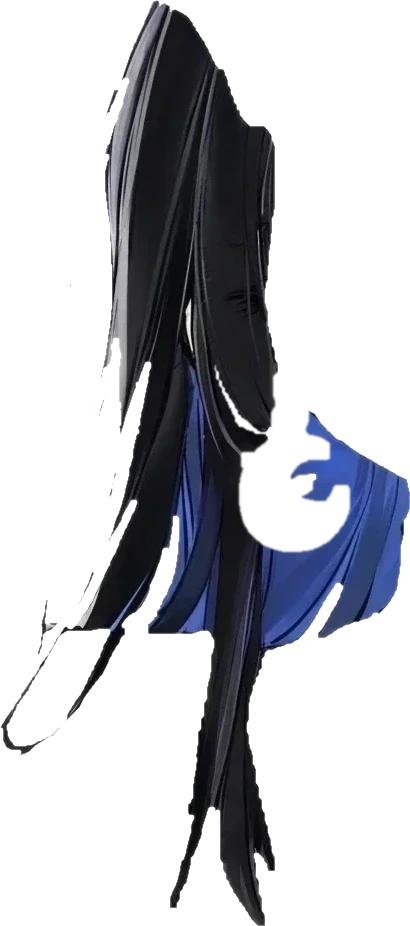
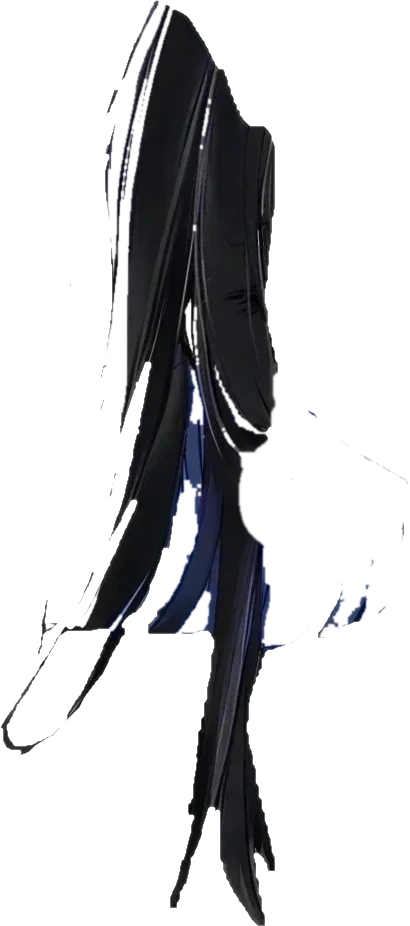
머리카락: 앞쪽 검은 다발만 찰랑, 안쪽은 살짝
Claude-Session: https://claude.ai/code/session_015z2jERGhkXRnxmKCmzk3Uw

diff --git a/rig/rig.js b/rig/rig.js
@@ -276,7 +276,7 @@ window.CelesteRig = async function(cv, opt = {}){
       else { [x0, y0] = PARTS.patches[n]; w = imgs[n].naturalWidth; h = imgs[n].naturalHeight; }
       const g = RIG.layers[n]?.group;
       const hair = g === 'hairBack' || g === 'strand' || g === 'underHair';
-      if(g === 'strand'){ const Ld = RIG.layers[n]; STR[n] = {root:Ld.root, len:Ld.len, c:chain(8), ph:0, gain:5.5, air:Ld.root[0] < FACE_X ? 1 : -.8, side:Ld.root[0] < FACE_X ? 'L' : 'R'}; }
+      if(g === 'strand'){ const Ld = RIG.layers[n]; STR[n] = {root:Ld.root, len:Ld.len, c:chain(8), ph:0, gain:Ld.soft ? 1.1 : 5.5, air:Ld.soft ? 0 : Ld.root[0] < FACE_X ? 1 : -.8, /* soft = 회색·파란 안쪽 머리: 고개 돌릴 때만 살짝 */ side:Ld.root[0] < FACE_X ? 'L' : 'R'}; }
       const bend = n === 'neck' || g === 'body';
       M[n] = mesh(n, x0, y0, w, h, hair ? 14 : bend ? 4 : 1, hair ? 64 : bend ? 24 : 1);   // 머리카락(과 목)만 그물, 나머지는 사각형 하나(휘지 않음)
       if(!RIG.layers[n]) M[n].group = 'patch';

diff --git a/sw.js b/sw.js
@@ -1,5 +1,5 @@
 // 오프라인 캐시. 배포할 때마다 버전이 오른다(tools/celeste_deploy.py)
-const CACHE = 'bleu-minuit-v26';
+const CACHE = 'bleu-minuit-v27';
 const FILES = [
  "rig/under.webp",
  "rig/back_hair.webp",
@@ -22,8 +22,11 @@ const FILES = [
  "rig/irides-r.webp",
  "rig/irides-l.webp",
  "rig/eyelash-l.webp",
+ "rig/strand00b.webp",
  "rig/strand00.webp",
+ "rig/strand01b.webp",
  "rig/strand01.webp",
+ "rig/strand02b.webp",
  "rig/strand02.webp",
  "rig/earMoon.webp",
  "rig/earStar.webp",
